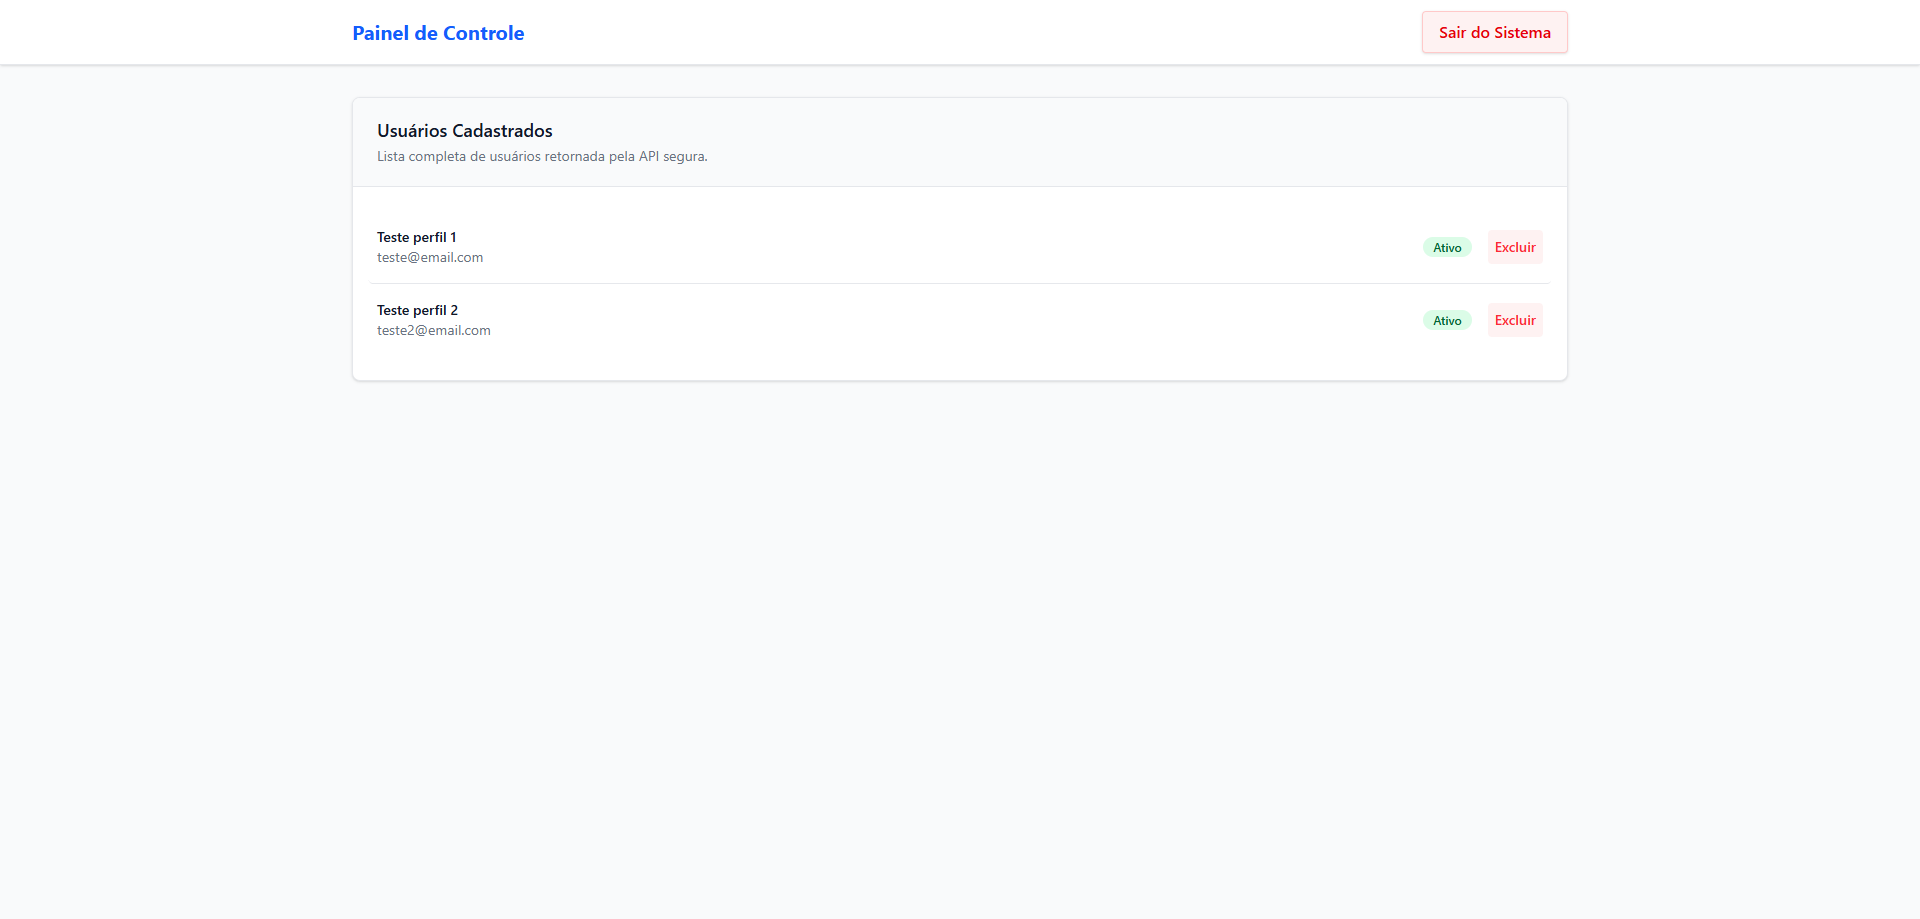
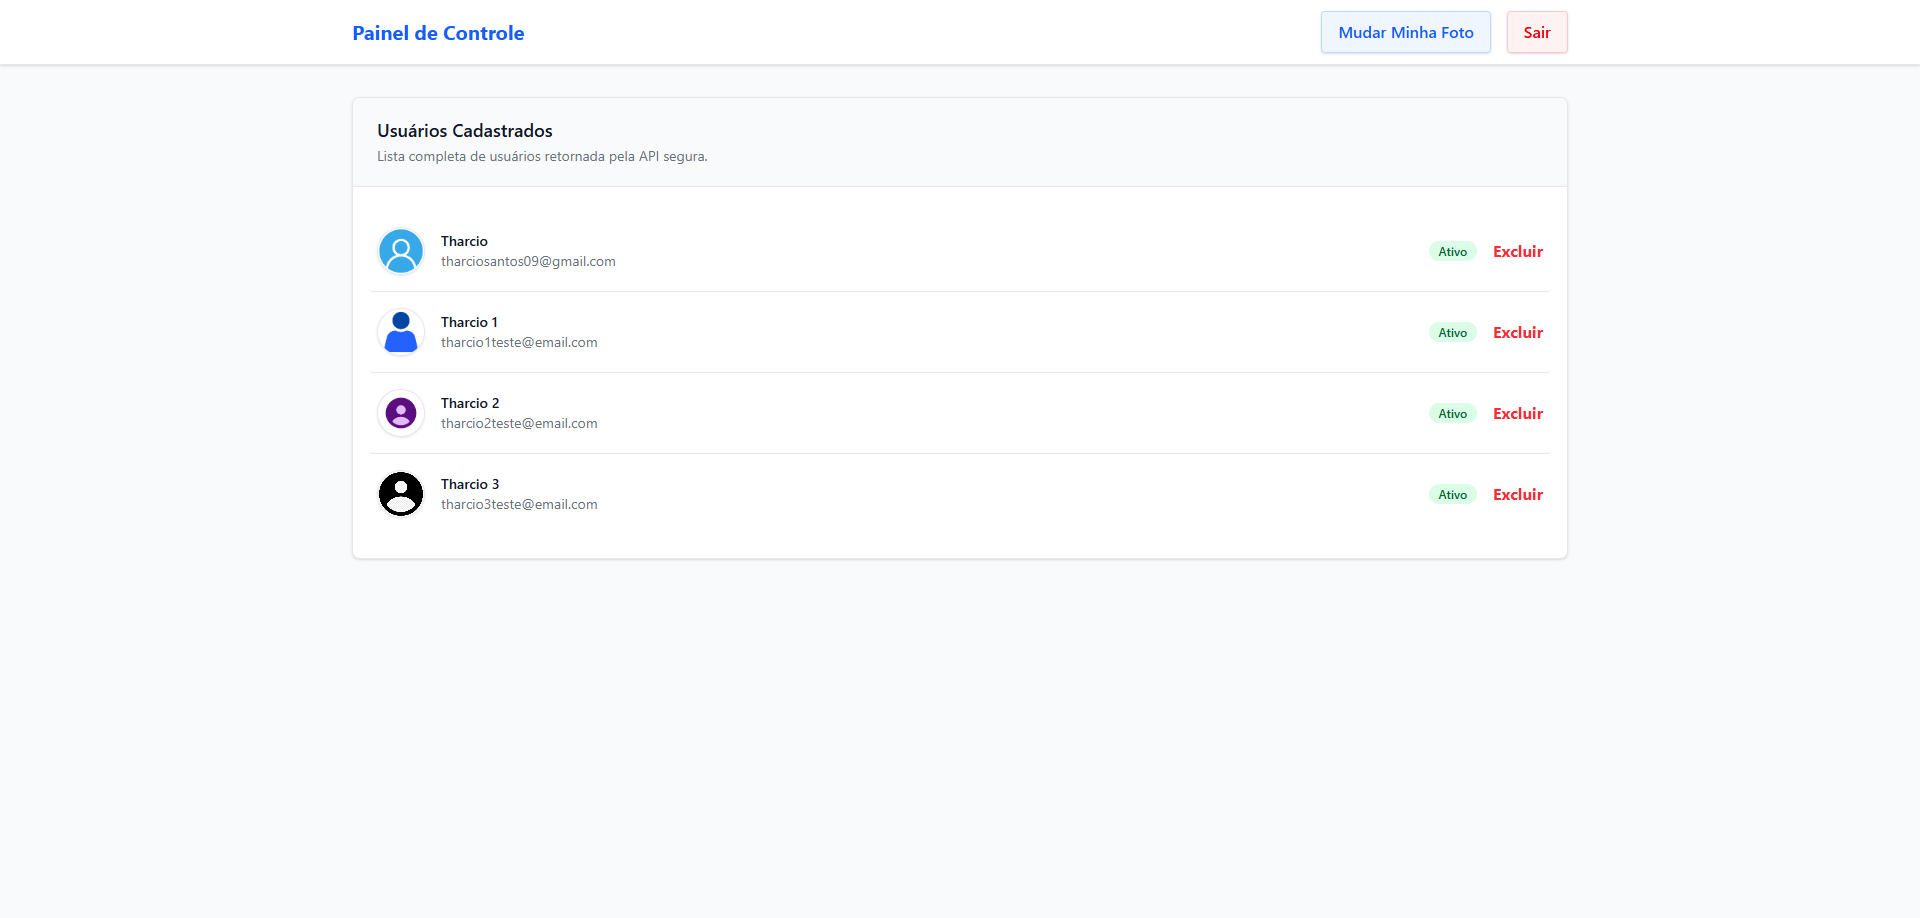
docs: atualiza readme com feature de upload e cloudinary

diff --git a/README.md b/README.md
@@ -7,6 +7,8 @@
 ![React Query](https://img.shields.io/badge/React_Query-FF4154?style=for-the-badge&logo=React_Query&logoColor=white)
 ![Cypress](https://img.shields.io/badge/Cypress-17202C?style=for-the-badge&logo=cypress&logoColor=white)
 ![React Hot Toast](https://img.shields.io/badge/React_Hot_Toast-F9F9E3?style=for-the-badge&logo=react&logoColor=black)
+![React Hot Toast](https://img.shields.io/badge/React_Hot_Toast-F9F9E3?style=for-the-badge&logo=react&logoColor=black)
+![Cloudinary](https://img.shields.io/badge/Cloudinary-3448C5?style=for-the-badge&logo=Cloudinary&logoColor=white)
 
 Uma Single Page Application (SPA) robusta e moderna, desenvolvida para demonstrar o consumo seguro de uma API RESTful. 
 
@@ -32,6 +34,7 @@ Este projeto atua como a camada visual de um ecossistema Full-Stack, cobrindo o 
 * **Rotas Privadas (Protected Routes):** Componente Wrapper (`<RotaPrivada>`) que intercepta usuários não autenticados e redireciona para o Login instantaneamente.
 * **Ciclo CRUD Completo:** Criação (Sign Up), Leitura (Listagem protegida) e Exclusão de dados conectados ao banco de dados real.
 * * **Feedback Visual Avançado:** Substituição de alertas nativos bloqueantes por notificações globais e assíncronas (Toasts), garantindo uma navegação fluida e UX de alto nível.
+* * **Upload de Imagens e Integração com CDN:** Manipulação de arquivos pesados no Front-end utilizando a interface nativa `FormData`. Comunicação ponta a ponta com a API (Node.js + Multer) para processamento e hospedagem de imagens na nuvem através do **Cloudinary** (CDN), com invalidação de cache inteligente via React Query para exibir o novo avatar em tempo real.
 
 ---
 
@@ -46,8 +49,8 @@ Formulário integrado com a rota pública da API para criação de novas contas 
 ![Tela de Cadastro](./docs/tela-cadastro.PNG)
 
 ### Dashboard (Rota Privada)
-Painel administrativo acessível apenas com Token JWT válido. Utiliza React Query para garantir que os dados estejam sempre atualizados sem recarregar a página.
-![Tela do Dashboard](./docs/tela-dashboard.PNG)
+Painel administrativo acessível apenas com Token JWT válido. Utiliza React Query para garantir que os dados estejam sempre atualizados sem recarregar a página. Conta com funcionalidade de **Upload de Avatar**, enviando a imagem para a nuvem e atualizando a interface instantaneamente.
+![Tela do Dashboard com Avatar](./docs/tela-dashboard.PNG)
 
 ---
 
